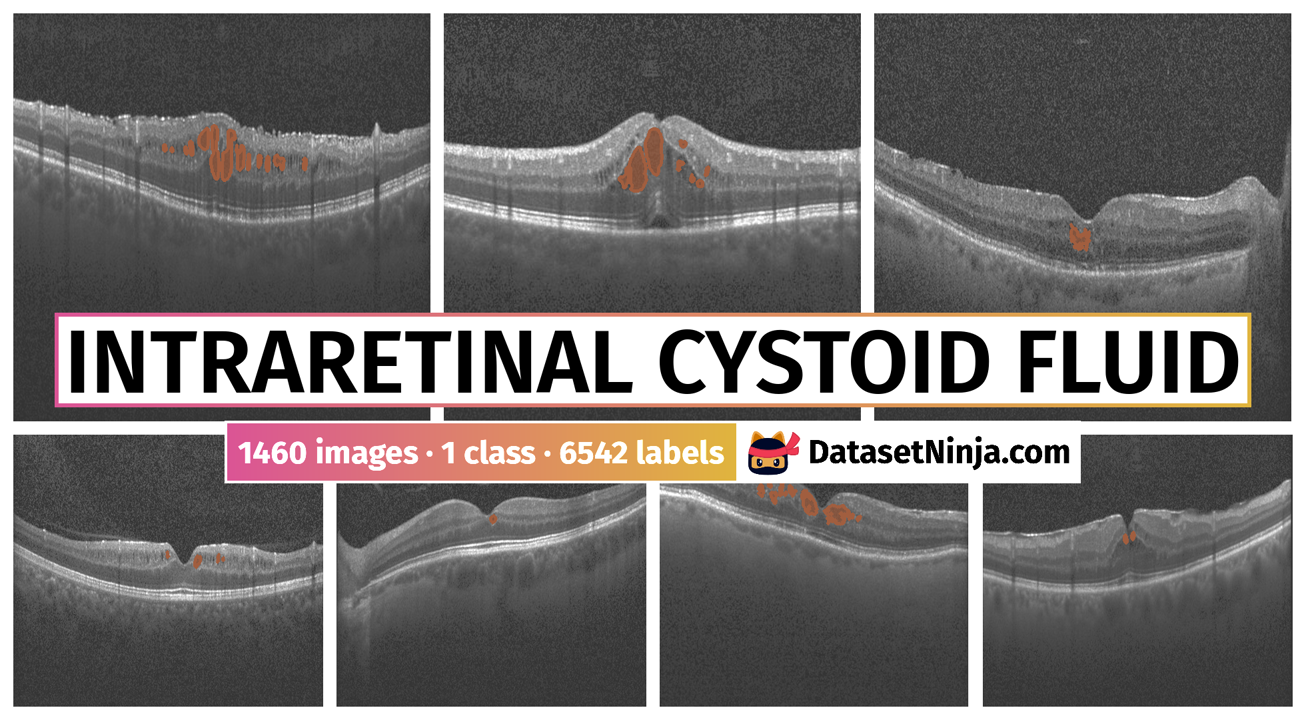
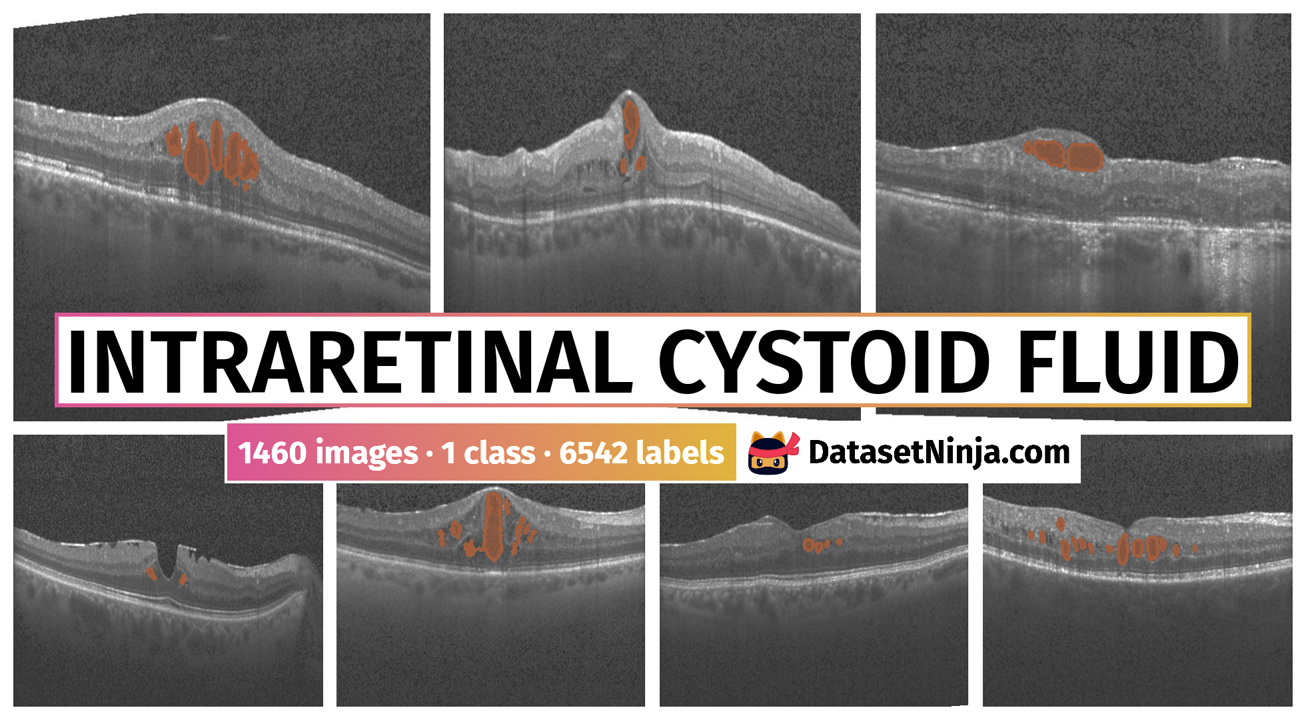
upd custom data

diff --git a/src/settings.py b/src/settings.py
@@ -1,6 +1,14 @@
 from typing import Dict, List, Optional, Union
 
-from dataset_tools.templates import AnnotationType, CVTask, Industry, License
+from dataset_tools.templates import (
+    AnnotationType,
+    Category,
+    CVTask,
+    Domain,
+    Industry,
+    License,
+    Research,
+)
 
 ##################################
 # * Before uploading to instance #
@@ -12,11 +20,20 @@ PROJECT_NAME_FULL: str = "Intraretinal Cystoid Fluid"
 # * After uploading to instance ##
 ##################################
 LICENSE: License = License.CC_BY_NC_SA_4_0()
-INDUSTRIES: List[Industry] = [Industry.Medical()]
-CV_TASKS: List[CVTask] = [CVTask.InstanceSegmentation()]
+APPLICATIONS: List[Union[Industry, Domain, Research]] = [Industry.Medical()]
+CATEGORY: Category = Category.Medical()
+
+CV_TASKS: List[CVTask] = [
+    CVTask.InstanceSegmentation(),
+    CVTask.SemanticSegmentation(),
+    CVTask.ObjectDetection(),
+]
 ANNOTATION_TYPES: List[AnnotationType] = [AnnotationType.InstanceSegmentation()]
 
-RELEASE_YEAR: int = 2022
+RELEASE_DATE: Optional[str] = None  # e.g. "YYYY-MM-DD"
+if RELEASE_DATE is None:
+    RELEASE_YEAR: int = 2022
+
 HOMEPAGE_URL: str = "https://www.kaggle.com/datasets/zeeshanahmed13/intraretinal-cystoid-fluid"
 # e.g. "https://some.com/dataset/homepage"
 
@@ -37,10 +54,25 @@ DOWNLOAD_ORIGINAL_URL: Optional[
 CLASS2COLOR: Optional[Dict[str, List[str]]] = None
 # If specific colors for classes are needed, fill this dict (e.g. {"class1": [255, 0, 0], "class2": [0, 255, 0]})
 
-PAPER: Optional[str] = None
+PAPER: Optional[str] = "https://onlinelibrary.wiley.com/doi/10.1002/ima.22662"
 CITATION_URL: Optional[str] = None
-ORGANIZATION_NAME: Optional[Union[str, List[str]]] = None
-ORGANIZATION_URL: Optional[Union[str, List[str]]] = None
+AUTHORS: Optional[List[str]] = [
+    "Zeeshan Ahmed",
+    "Munawar Ahmed",
+    "Attiya Baqai",
+    "Fahim Aziz Umrani",
+]
+
+ORGANIZATION_NAME: Optional[Union[str, List[str]]] = [
+    "Mehran University of Engineering and Technology (MUET), Pakistan",
+    "Liaquat University of Medical and Health Sciences (LUMHS), Pakistan",
+]
+ORGANIZATION_URL: Optional[Union[str, List[str]]] = [
+    "https://www.muet.edu.pk/",
+    "https://www.lumhs.edu.pk/",
+]
+
+SLYTAGSPLIT: Optional[Dict[str, List[str]]] = None
 TAGS: List[str] = None
 
 ##################################
@@ -55,10 +87,15 @@ def check_names():
 
 
 def get_settings():
+    if RELEASE_DATE is not None:
+        global RELEASE_YEAR
+        RELEASE_YEAR = int(RELEASE_DATE.split("-")[0])
+
     settings = {
         "project_name": PROJECT_NAME,
         "license": LICENSE,
-        "industries": INDUSTRIES,
+        "applications": APPLICATIONS,
+        "category": CATEGORY,
         "cv_tasks": CV_TASKS,
         "annotation_types": ANNOTATION_TYPES,
         "release_year": RELEASE_YEAR,
@@ -70,13 +107,16 @@ def get_settings():
     if any([field is None for field in settings.values()]):
         raise ValueError("Please fill all fields in settings.py after uploading to instance.")
 
+    settings["release_date"] = RELEASE_DATE
     settings["project_name_full"] = PROJECT_NAME_FULL or PROJECT_NAME
     settings["download_original_url"] = DOWNLOAD_ORIGINAL_URL
     settings["class2color"] = CLASS2COLOR
     settings["paper"] = PAPER
     settings["citation_url"] = CITATION_URL
+    settings["authors"] = AUTHORS
     settings["organization_name"] = ORGANIZATION_NAME
     settings["organization_url"] = ORGANIZATION_URL
-    settings["tags"] = TAGS if TAGS is not None else []
+    settings["slytagsplit"] = SLYTAGSPLIT
+    settings["tags"] = TAGS
 
     return settings

diff --git a/src/options.py b/src/options.py
@@ -5,11 +5,11 @@
 # * Preview class to visualize in SUMMARY.md overview section
 # * Literal["ClassesPreview", "HorizontalGrid", "SideAnnotationsGrid", "Poster"]
 # * If None, then preview_class will be set automatically to "ClassesPreview"
-PREVIEW_CLASS = None
+PREVIEW_CLASS = "Poster"
 
 IS_DETECTION_TASK: bool = None  # ? Set True if you want to visualize only bbox annotations
 
-###############################################################
+######################################################d#########
 ####### * Set up visualization params for Poster class ########
 POSTER_IS_DETECTION_TASK: bool = IS_DETECTION_TASK
 POSTER_TITLE: str = None
@@ -64,14 +64,16 @@ HEATMAP_ROWS: int = None
 HEATMAP_COLS: int = None
 HEATMAP_GRID_SPACING: int = None
 HEATMAP_OUTER_GRID_SPACING: int = None
-HEATMAP_OUTPUT_WIDTH: int = None # 1 class in dataset? -> 1600px for portrait images, 2200px for landscape
+HEATMAP_OUTPUT_WIDTH: int = (
+    None  # 1 class in dataset? -> 1600px for portrait images, 2200px for landscape
+)
 ###############################################################
-
 
 
 ##################################
 ###### ? Do not edit bellow #####
 ##################################
+
 
 def get_visualization_options():
     vis_settings = {
@@ -93,7 +95,7 @@ def get_visualization_options():
             "rows": SIDE_ANNOTATIONS_GRID_ROWS,
             "cols": SIDE_ANNOTATIONS_GRID_COLS,
             "is_detection_task": SIDE_ANNOTATIONS_GRID_IS_DETECTION_TASK,
-        }
+        },
     }
 
     checked_vis_settings = {}

diff --git a/ABSTRACT.md b/ABSTRACT.md
@@ -1,0 +1,8 @@
+The dataset contains the Optical Coherence Tomography (OCT) images and their masks of Cystoid Macular Edema (CME) ocular disease for image segmentation purposes.
+
+Acquiring OCT data from Diabetic Macular Edema (DME) patients is difficult due to the lack of an open database from any ophthalmic hospital. Therefore, we obtained a database of retinal images available at [Retinal OCT Images](https://www.kaggle.com/datasets/paultimothymooney/kermany2018) in which we took a dataset of only DME subjects. From this dataset, only 1000 images were chosen by the medical experts at Liaquat University of Medical and Health Sciences (LUMHS) Jamshoro, that are trained to identify Cystoid Macular Edema (CME) and its progression and provide a confirmatory diagnosis of CME. Whereas 200 OCT images are taken with the consent of patients from the Institute of Ophthalmology, Jamshoro for the testing set. These OCT images were explicitly selected to contain several CME regions and a wide variety in their shapes and sizes which is utilized for both training and test sets to get better results.
+
+In OCT images, the approach of semantic segmentation is that each pixel of an image is labeled with a corresponding clinical class representing a particular disease. The manual binary image masking was performed accordingly using the Image Segmentation application in MATLAB software offers a variety of tools (flood fill/draw freehand) for manually selecting an image region of interest (ROI). This was necessary for the training of our model to identify and isolate the CME and to validate the accuracy of digitally picked ROIs (CME). The pixels whose value is “1” in the mask image indicate the foreground, that is CME, and the pixels whose value is “0” in the mask image indicate the background.
+These are the actual ground truth label image and for the given input DME image, the model must predict the labels.
+
+This dataset has been arranged and categorized under the supervision of the medical experts at Liaquat University of Medical and Health Sciences (LUMHS) Jamshoro, Pakistan, that are trained to identify CME and its progression and provide a confirmatory diagnosis of CME.

diff --git a/SUMMARY.md b/SUMMARY.md
@@ -1,9 +1,7 @@
-**Intraretinal Cystoid Fluid** is a dataset for instance segmentation tasks. It is used in the medical industry.
+**Intraretinal Cystoid Fluid** is a dataset for instance segmentation, semantic segmentation, and object detection tasks. It is used in the medical industry. 
 
-The dataset consists of 1460 images with 6542 labeled objects belonging to 1 single class (_cystic macular edema_).
+The dataset consists of 1460 images with 6542 labeled objects belonging to 1 single class (*cystic macular edema*).
 
-Images in the Intraretinal Cystoid Fluid dataset have pixel-level instance segmentation annotations. Due to the nature of the instance segmentation task, it can be automatically transformed into a semantic segmentation (only one mask for every class) or object detection (bounding boxes for every object) tasks. All images are labeled (i.e. with annotations). There is 1 split in the dataset: _ds_ (1460 images). The dataset was released in 2022.
+Images in the Intraretinal Cystoid Fluid dataset have pixel-level instance segmentation annotations. Due to the nature of the instance segmentation task, it can be automatically transformed into a semantic segmentation (only one mask for every class) or object detection (bounding boxes for every object) tasks. All images are labeled (i.e. with annotations). There are no pre-defined <i>train/val/test</i> splits in the dataset. The dataset was released in 2022 by the [Mehran University of Engineering and Technology (MUET), Pakistan](https://www.muet.edu.pk/) and [Liaquat University of Medical and Health Sciences (LUMHS), Pakistan](https://www.lumhs.edu.pk/).
 
-Here are the visualized examples for each of the 1 classes:
-
-[Dataset classes](https://github.com/dataset-ninja/intraretinal-cystoid-fluid/raw/main/visualizations/horizontal_grid.webm)
+<img src="https://github.com/dataset-ninja/intraretinal-cystoid-fluid/raw/main/visualizations/poster.png">

diff --git a/CITATION.md b/CITATION.md
@@ -1,11 +1,11 @@
 If you make use of the Intraretinal Cystoid Fluid data, please cite the following reference:
 
-```bibtex
-@misc{Intraretinal Cystoid Fluid,
-	author="ZEESHAN AHMED",
-	title="Intraretinal Cystoid Fluid",
+``` bibtex 
+@dataset{Intraretinal Cystoid Fluid,
+	author={Zeeshan Ahmed and Munawar Ahmed and Attiya Baqai and Fahim Aziz Umrani},
+	title={Intraretinal Cystoid Fluid},
 	year={2022},
-	url="https://www.kaggle.com/datasets/zeeshanahmed13/intraretinal-cystoid-fluid"
+	url={https://www.kaggle.com/datasets/zeeshanahmed13/intraretinal-cystoid-fluid}
 }
 ```
 
